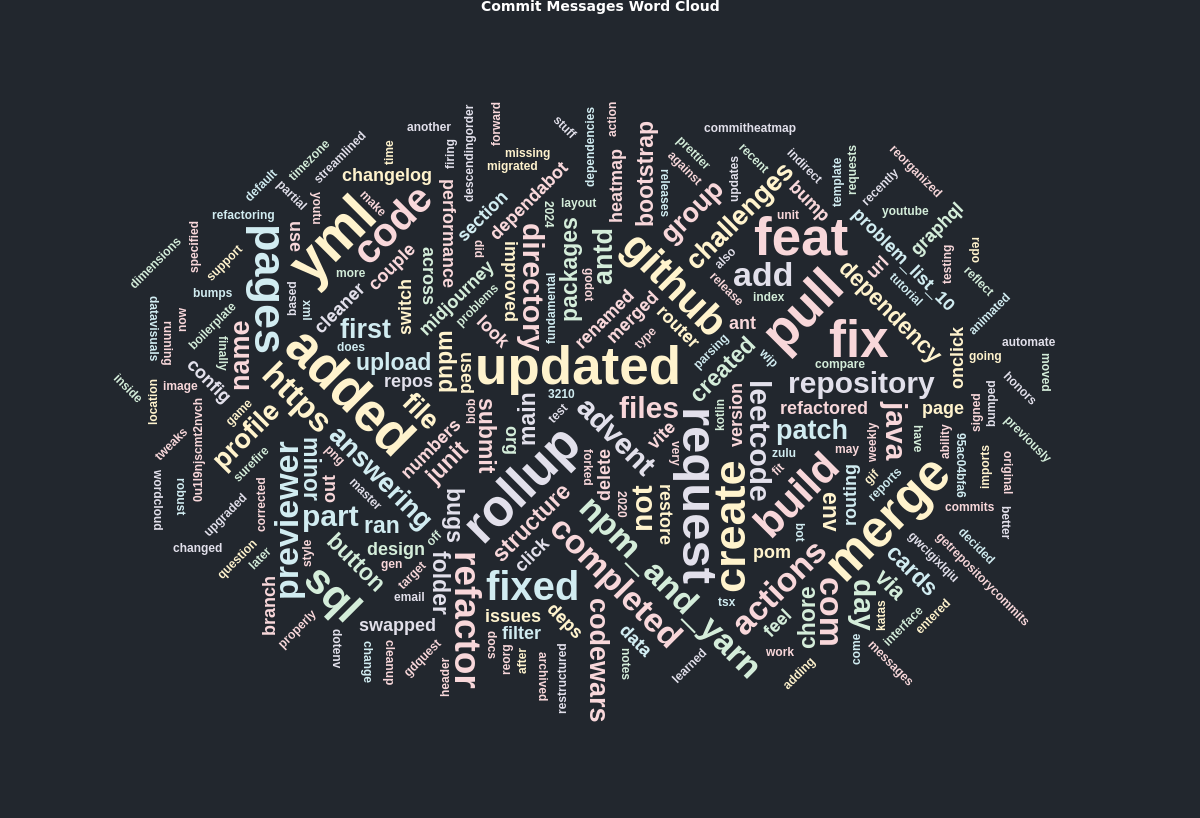
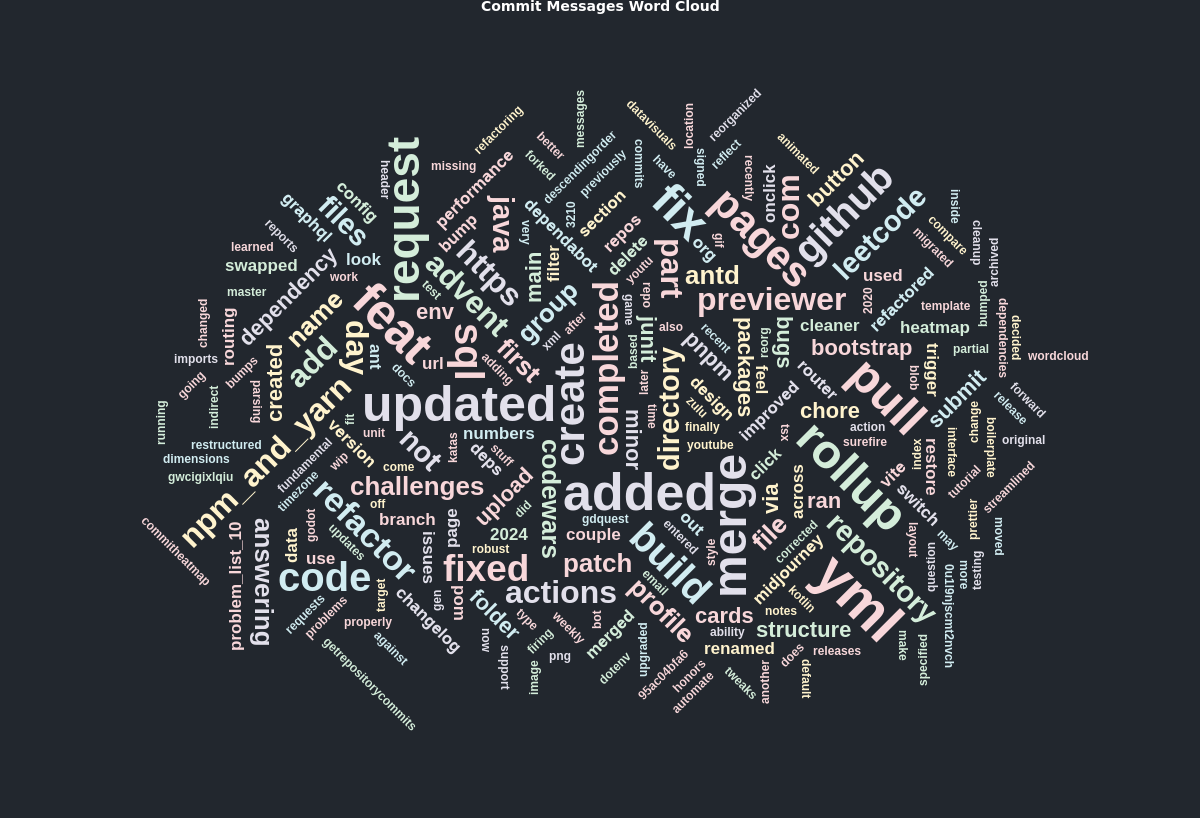
Updated data

Changed region(s): [[0.0925, 0.1222, 0.8942, 0.8863], [0.8325, 0.7335, 0.8633, 0.7641], [0.0925, 0.3362, 0.1233, 0.3667]]

diff --git a/Profile/README.md b/Profile/README.md
@@ -27,19 +27,19 @@ Here are some ideas to get you started:
 
 ---
 
-### Data last generated on: 2024-11-26 via [GitHub Action 12026543672](https://github.com/renerod1/renerod1/actions/runs/12026543672)
+### Data last generated on: 2024-12-05 via [GitHub Action 12171808582](https://github.com/renerod1/renerod1/actions/runs/12171808582)
 
 
 ## 🚀 Recent Commits
 
-- **profile-data-gen - [refactor: some minor code cleanup](https://github.com/renerod1/profile-data-gen/commit/103aa6aaacf48d4b1a42848004bf7633fe4e9250)**
-   - Additions: 22 - Deletions: 33 - Total Changes: 55
+- **AdventOfCode - [Update trigger.yml](https://github.com/renerod1/AdventOfCode/commit/cbb1b1d0c73ffaaaa049c0816c13675ead0294da)**
+   - Additions: 1 - Deletions: 1 - Total Changes: 2
 
-- **profile-data-gen - [refactor: streamlined getRepositoryCommits.graphql](https://github.com/renerod1/profile-data-gen/commit/d7bd867a626197b397f1110d8a6f7d15b761fe22)**
-   - Additions: 50 - Deletions: 62 - Total Changes: 112
+- **AdventOfCode - [Added trigger.yml](https://github.com/renerod1/AdventOfCode/commit/0da9750a50a73f873d36f73e38cc407ed8e4de6b)**
+   - Additions: 25 - Deletions: 0 - Total Changes: 25
 
-- **profile-data-gen - [feat: added filter to not used archived repos](https://github.com/renerod1/profile-data-gen/commit/ca231964382619b6dd7d08f3fc15d389d83b6625)**
-   - Additions: 6 - Deletions: 2 - Total Changes: 8
+- **AdventOfCode - [Completed Advent of Code - 2024 Day 1 Part 1](https://github.com/renerod1/AdventOfCode/commit/f80487e8370f5c3f34280c89d579b1b599e0bcb5)**
+   - Additions: 1163 - Deletions: 10 - Total Changes: 1173
 
 ## 🔀 Recently Merged Pull Requests
 

diff --git a/README.md b/README.md
@@ -27,19 +27,19 @@ Here are some ideas to get you started:
 
 ---
 
-### Data last generated on: 2024-11-26 via [GitHub Action 12026543672](https://github.com/renerod1/renerod1/actions/runs/12026543672)
+### Data last generated on: 2024-12-05 via [GitHub Action 12171808582](https://github.com/renerod1/renerod1/actions/runs/12171808582)
 
 
 ## 🚀 Recent Commits
 
-- **profile-data-gen - [refactor: some minor code cleanup](https://github.com/renerod1/profile-data-gen/commit/103aa6aaacf48d4b1a42848004bf7633fe4e9250)**
-   - Additions: 22 - Deletions: 33 - Total Changes: 55
+- **AdventOfCode - [Update trigger.yml](https://github.com/renerod1/AdventOfCode/commit/cbb1b1d0c73ffaaaa049c0816c13675ead0294da)**
+   - Additions: 1 - Deletions: 1 - Total Changes: 2
 
-- **profile-data-gen - [refactor: streamlined getRepositoryCommits.graphql](https://github.com/renerod1/profile-data-gen/commit/d7bd867a626197b397f1110d8a6f7d15b761fe22)**
-   - Additions: 50 - Deletions: 62 - Total Changes: 112
+- **AdventOfCode - [Added trigger.yml](https://github.com/renerod1/AdventOfCode/commit/0da9750a50a73f873d36f73e38cc407ed8e4de6b)**
+   - Additions: 25 - Deletions: 0 - Total Changes: 25
 
-- **profile-data-gen - [feat: added filter to not used archived repos](https://github.com/renerod1/profile-data-gen/commit/ca231964382619b6dd7d08f3fc15d389d83b6625)**
-   - Additions: 6 - Deletions: 2 - Total Changes: 8
+- **AdventOfCode - [Completed Advent of Code - 2024 Day 1 Part 1](https://github.com/renerod1/AdventOfCode/commit/f80487e8370f5c3f34280c89d579b1b599e0bcb5)**
+   - Additions: 1163 - Deletions: 10 - Total Changes: 1173
 
 ## 🔀 Recently Merged Pull Requests
 
